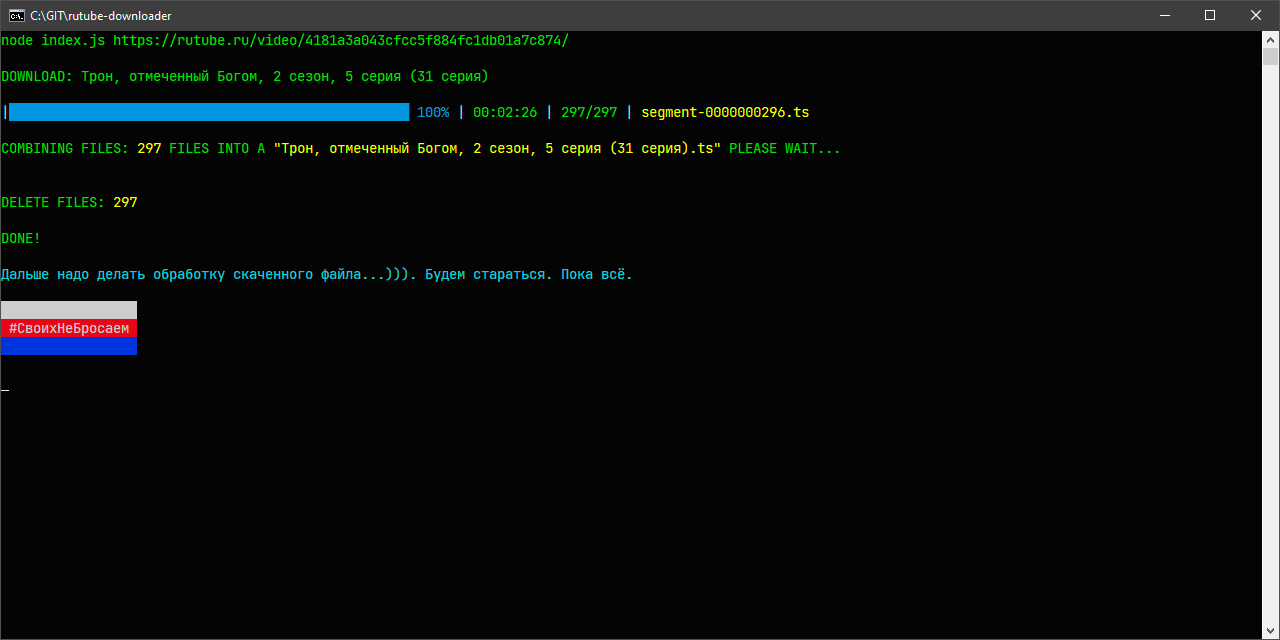
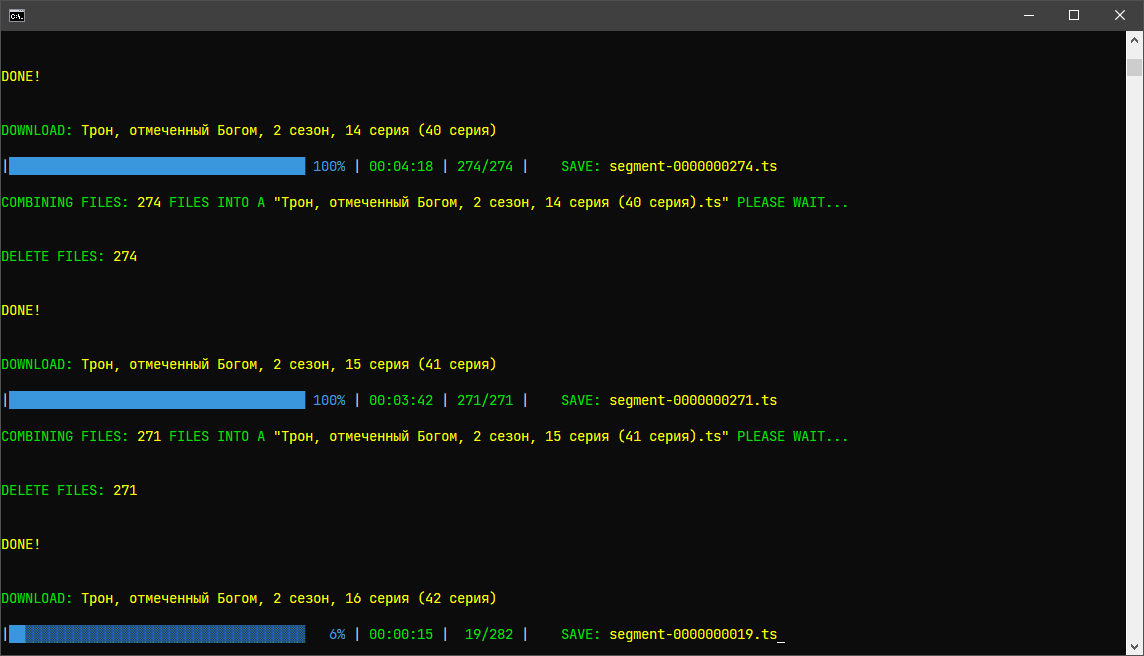
update

diff --git a/index.js b/index.js
@@ -16,7 +16,6 @@ const path = require('node:path');
 const URL = require('node:url');
 const stream = require('node:stream');
 const util = require('node:util');
-const { execFileSync, execSync, spawnSync } = require('node:child_process');
 
 // Установленные
 const fetch = require('node-fetch');
@@ -163,7 +162,7 @@ const escapeRegExp = function(text) {
 										await createDir(__dirname + "/video");
 										await deleteFiles(/^segment-.*\.ts/, __dirname + '/video');
 										console.log(" ");
-										console.log("DOWNLOAD:", outputTitle, "\n");
+										console.log("DOWNLOAD:", _colors.yellowBright(outputTitle), "\n");
 
 										const progress = new cliProgress.SingleBar({
 											stopOnComplete: true,
@@ -232,10 +231,6 @@ const escapeRegExp = function(text) {
 										await execFFmpeg(`${__dirname}/video/${saveTitle}${ext}`, `${__dirname}/video/${saveTitle}.mp4`);
 										console.log(_colors.yellowBright("DONE!"));
 										console.log("\u00A0");
-										console.log(_colors.bgWhite(_colors.white("█████████████████")) + "\u00A0");
-										console.log(_colors.bgRed(_colors.white(" #СвоихНеБросаем ")) + "\u00A0");
-										console.log(_colors.bgBlue(_colors.blue("█████████████████")) + "\u00A0");
-										console.log("\u00A0");
 										resolve(true);
 									})
 							});
@@ -250,7 +245,11 @@ const escapeRegExp = function(text) {
 	if (urls.length) {
 		for(let i = 0; i < urls.length; ++i){
 			url = urls[i];
-			await runDownLoadAndConverting(url)
+			await runDownLoadAndConverting(url);
 		}
 	}
+	console.log(_colors.bgWhite(_colors.white("█████████████████")) + "\u00A0");
+	console.log(_colors.bgRed(_colors.white(" #СвоихНеБросаем ")) + "\u00A0");
+	console.log(_colors.bgBlue(_colors.blue("█████████████████")) + "\u00A0");
+	console.log("\u00A0");
 }());
